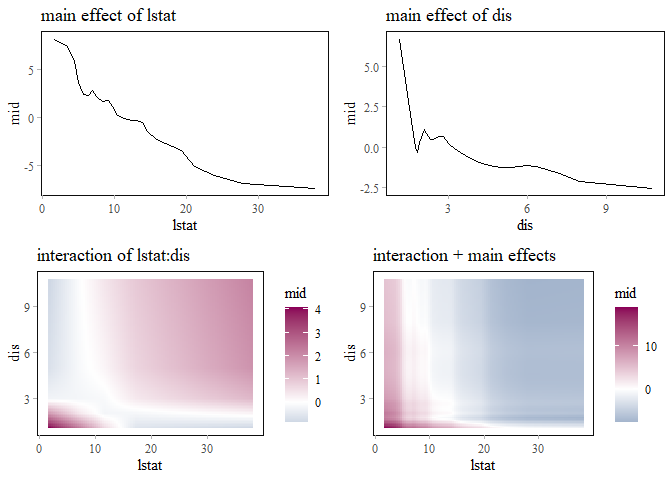
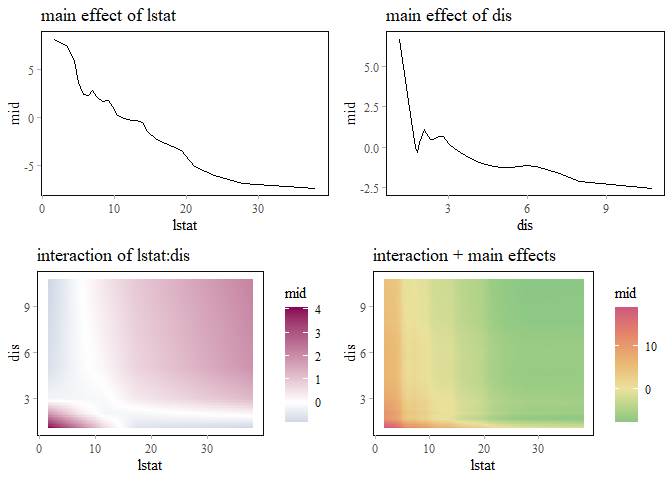
version 0.4.9.907 - interpret() now has a new `verbosity` argument for logging.

Changed region(s): [[0.5625, 0.5625, 0.875, 0.9062], [0.9062, 0.625, 0.9688, 0.875]]

diff --git a/README.md b/README.md
@@ -11,13 +11,14 @@ status](https://www.r-pkg.org/badges/version/midr)](https://CRAN.R-project.org/p
 
 <!-- badges: end -->
 
-midr is designed to provide a model-agnostic method for interpreting and
-explaining black-box predictive models by creating a globally
-interpretable surrogate model using a functional decomposition technique
-called Maximum Interpretation Decomposition (MID). For the theoretical
-details of MID, see Iwasawa & Matsumori (2025) \<\>\[Forthcoming\], and
-for the technical details of the package, see Asashiba et al. (2025)
-\[Forthcoming\].
+midr provides a model-agnostic method to interpret and explain black-box
+predictive models by creating a globally interpretable surrogate based
+on Maximum Interpretation Decomposition (MID), a functional
+decomposition technique that minimizes the squared error between the
+target model predictions and the predictions of the surrogate model. For
+the theoretical foundations of MID, please refer to Iwasawa & Matsumori
+(2025) \[Forthcoming\]. For technical details of the midr package,
+please see Asashiba et al. (2025) \[Forthcoming\].
 
 ## Installation
 
@@ -84,15 +85,9 @@ mid
 #> 66 interaction terms
 #> 
 #> Uninterpreted Variation Ratio: 0.016249
-```
-
-``` r
 preds_mid <- predict(mid, valid)
 cat("RMSE: ", weighted.rmse(preds_rf, preds_mid))
 #> RMSE:  1.106746
-```
-
-``` r
 cat("RMSE: ", weighted.rmse(valid$medv, preds_mid))
 #> RMSE:  3.306111
 ```
@@ -101,7 +96,7 @@ To visualize the main and interaction effects of the variables, apply
 `ggmid()` or `plot()` to the fitted MID model.
 
 ``` r
-# visualize the main effects and interactions of the MID model
+# visualize the main and interaction effects of the MID model
 grid.arrange(
   ggmid(mid, "lstat") +
     ggtitle("main effect of lstat"),
@@ -109,12 +104,19 @@ grid.arrange(
     ggtitle("main effect of dis"),
   ggmid(mid, "lstat:dis") +
     ggtitle("interaction of lstat:dis"),
-  ggmid(mid, "lstat:dis", main.effects = TRUE) +
+  ggmid(mid, "lstat:dis", main.effects = TRUE, theme = "Temps") +
     ggtitle("interaction + main effects")
 )
 ```
 
 <img src="man/figures/README-ggmid-1.png" width="100%" />
+
+``` r
+# visualize all main effects
+grid.arrange(grobs = mid.plots(mid), nrow = 3)
+```
+
+<img src="man/figures/README-ggmid-2.png" width="100%" />
 
 `mid.importance()` helps to compute and compare the importance of main
 and interaction effects.
@@ -123,7 +125,7 @@ and interaction effects.
 # visualize the MID importance of the component functions
 imp <- mid.importance(mid)
 grid.arrange(nrow = 1L,
-  ggmid(imp, theme = "Dark 2_r", max.bars = 20L) +
+  ggmid(imp, "dotchart", theme = "Okabe-Ito") +
     theme(legend.position = "bottom") +
     ggtitle("importance of variable effects"),
   ggmid(imp, "heatmap") +
@@ -143,10 +145,10 @@ value into variable effects.
 bd1 <- mid.breakdown(mid, data = train[1L, ])
 bd9 <- mid.breakdown(mid, data = train[9L, ])
 grid.arrange(nrow = 1L,
-  ggmid(bd1, "waterfall", theme = "Tableau 10", max.bars = 12L) +
+  ggmid(bd1, "waterfall", theme = "Tableau 10", max.bars = 14L) +
     theme(legend.position = "bottom") +
     ggtitle("breakdown of prediction 1"),
-  ggmid(bd9, "waterfall", theme = "Tableau 10", max.bars = 12L) +
+  ggmid(bd9, "waterfall", theme = "Tableau 10", max.bars = 14L) +
     theme(legend.position = "bottom") +
     ggtitle("breakdown of prediction 9")
 )

diff --git a/NEWS.md b/NEWS.md
@@ -2,6 +2,10 @@
 
 [First release on CRAN.]
 
+## midr 0.4.9.907
+
+-   `interpret()` now includes a new `verbosity` argument for logging.
+
 ## midr 0.4.9.906
 
 -   **Important:** Update the behavior of `get.yhat()` for classification tasks: If the model returns a matrix or data.frame of class probabilities, by default, `get.yhat()` returns the probability of *not* being the base level.
@@ -30,47 +34,35 @@
 
 -   `interpret()` now interactively confirms whether a singular fit or exceeding the maximum number of columns is an error.
 
-## midr 0.4.8.909
+## midr 0.4.3-0.4.8.909
 
 -   Add `mid.ur()` to extract uninterpreted ratio (rate) more conveniently.
 
 -   Modify weighted loss functions to compute deviation-from-mean based losses for one input.
 
-## midr 0.4.8.908
-
 -   Modify `ggmid.mid.breakdown()` , `ggmid.mid.importance()` and `plot.mid.breakdown()` to improve usability of the functions.
-
-## midr 0.4.8.907
 
 -   Modify `interpret()` to add the `pred.args` argument that can be used to pass optional arguments to the prediction function (`pred.fun()`).
 
 -   Add a draft of the article on "the interpretation of classification models".
 
-## midr 0.4.8.906
-
 -   Modify `interpret()` to allow matrices to be used as valid inputs for `data` (`interpret.formula()`) and `x` (`interpret.default()`).
 
 -   Add an article on "the interpretation of regression models".
-
-## midr 0.4.8.905
 
 -   Define `print.encoder()` for "encoder" objects to improve usability of the fitted MID models.
 
 -   Update README.
 
-## midr 0.4.8.904
-
 -   Change default values of some arguments: e.g. `na.action = na.pass` of `predict.mid()`.
 
 -   Fix small bugs of `plot.mid.conditional()`.
-
-## midr 0.4.8.903
 
 -   Update `interpret()` to ensure that the value of the argument `link` is a character string.
 
 -   Update `ggmid.mid.conditional()` and `plot.mid.conditional()`: `var.color` and the similar arguments can take an expression as input.
 
-## midr 0.4.3-0.4.8.902
+## midr 0.4.3
 
 midr is in the release process. We will submit the package to CRAN by mid-January 2025 .
 
